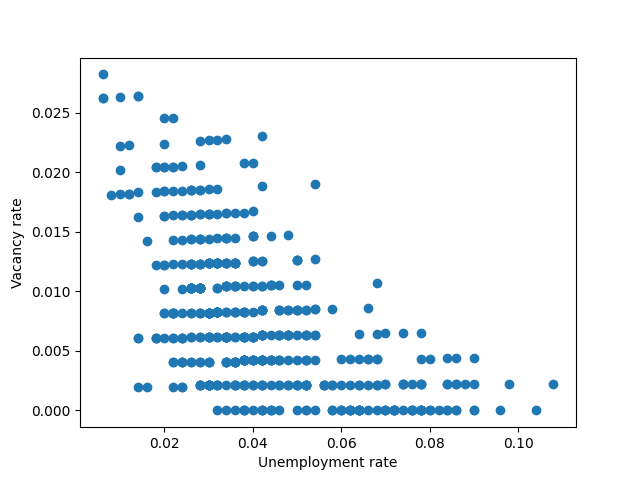
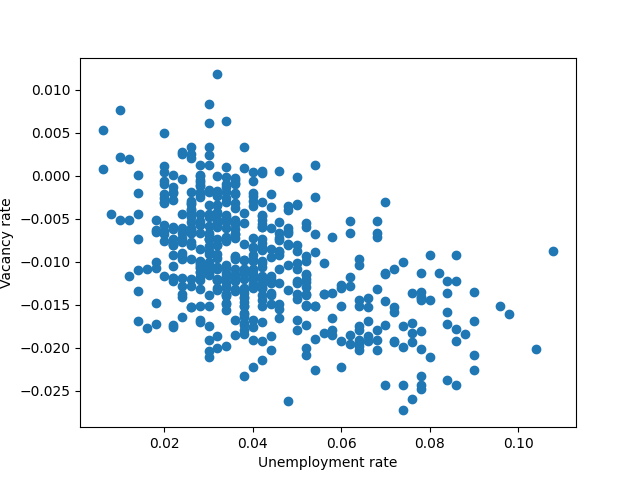
vacancie rate negative

diff --git a/models/BAM.py b/models/BAM.py
@@ -160,7 +160,7 @@ class BAM_base:
             Lhat = np.zeros(self.Nf) # Labor whose contracts are expiring
             L = np.zeros(self.Nf)  # actual Labor Employed
             Lo = np.zeros(self.Nf) # actual workforce (L of last round - amount of just expired contracts)
-            vac = np.zeros(self.Nf, int) # Vacancy
+            vac = np.zeros(self.Nf) # Vacancy
             w_emp = [[] for _ in range(self.Nf)] # Ids of workers/household employed - each firm has a list with worker ids
             W = np.zeros(self.Nf) # aggregated Wage bills (wage payments to each Worker * employed workers)
             w_min_slice = np.repeat(np.arange(1,self.T,4), 4)  # array with values from 3 up to T-3 appearing 4 times in a row for slicing the minimum wage s.t. min. wage is revised every 4 periods
@@ -346,7 +346,8 @@ class BAM_base:
                     Lo[i] =  L[i] - Lhat[i]  # actual workforce
                     
                     # calcVacancies of firm i
-                    vac[i] = math.ceil(max((Ld[i] - Lo[i]) ,0)) # vacancies are always rounded to the next higher and cannot be negative
+                    # vac[i] = math.ceil(max((Ld[i] - Lo[i]) ,0)) # vacancies are always rounded to the next higher and cannot be negative
+                    vac[i] = np.around(max((Ld[i] - Lo[i]) ,0), decimals = 8)
                     if vac[i] > 0: 
                         f_empl.append(i+1) # if firm i has vacancies, then firm id i is saved to list 
 
@@ -1069,7 +1070,7 @@ class BAM_base:
                     writer.writerow(add_row)
 
                 # firm size distribution
-                if t in [499,599,699, 799, 899,999]:
+                if t in [self.T-499,self.T-599,self.T-699,self.T-799,self.T-899,self.T-999]:
                     
                     plt.clf()
                     plt.hist(L)
@@ -1101,6 +1102,9 @@ class BAM_base:
                 - initial entry: Ld = average ??!!
                 - resetting all key lists in beginning of each market ??
 
+                - vacancies not discrete -> look weird
+
+                Computationally more efficient
                 - using only numpy arrays: never use append and no for loops inside for loops
                 - rather: use 2-d numpy arrays: save values to initiazed list, then remove values not used .. 
                 """
@@ -1182,28 +1186,28 @@ class BAM_base:
                 """
                 # Log output
                 plt.clf()
-                plt.plot(np.log(self.production[499:,mc]))
+                plt.plot(np.log(self.production[self.T -499:,mc]))
                 plt.xlabel("Time")
                 plt.ylabel("Log output")
                 plt.savefig("plots/cut/LogOutput_mc%s.png" %mc)
 
                 # inflation rate
                 plt.clf()
-                plt.plot(self.inflation[499:,mc])
+                plt.plot(self.inflation[self.T -499:,mc])
                 plt.xlabel("Time")
                 plt.ylabel("Inflation rate")
                 plt.savefig("plots/cut/Inflation_mc%s.png" %mc)
 
                 # unemployment 
                 plt.clf()
-                plt.plot(self.unemp_rate[499:,mc])
+                plt.plot(self.unemp_rate[self.T -499:,mc])
                 plt.xlabel("Time")
                 plt.ylabel("unemployment rate")
                 plt.savefig("plots/cut/unemployment_mc%s.png" %mc)
                 
                 # productivity/real wage
                 plt.clf()
-                plt.plot(self.product_to_real_wage[499:,mc])
+                plt.plot(self.product_to_real_wage[self.T -499:,mc])
                 plt.xlabel("Time")
                 plt.ylabel("Productivity-real wage")
                 plt.savefig("plots/cut/product_to_real_wage_mc%s.png" %mc)
@@ -1211,21 +1215,21 @@ class BAM_base:
 
                 # Philips curve
                 plt.clf()
-                plt.scatter(self.unemp_rate[499:,mc], self.wage_inflation[499:,mc])
+                plt.scatter(self.unemp_rate[self.T -499:,mc], self.wage_inflation[self.T -499:,mc])
                 plt.xlabel("Unemployment Rate")
                 plt.ylabel("Wage Inflation")
                 plt.savefig('plots/cut/philips_mc%s.png' %mc)
 
                 # Okuns law
                 plt.clf()
-                plt.scatter(self.unemp_growth_rate[499:,mc], self.output_growth_rate[499:,mc])
+                plt.scatter(self.unemp_growth_rate[self.T -499:,mc], self.output_growth_rate[self.T -499:,mc])
                 plt.xlabel("Unemployment growth rate")
                 plt.ylabel("Output growth rate")
                 plt.savefig('plots/cut/Okun_mc%s.png' %mc)
 
                 # Beveridge
                 plt.clf()
-                plt.scatter(self.unemp_rate[499:,mc], self.vac_rate[499:,mc])
+                plt.scatter(self.unemp_rate[self.T -499:,mc], self.vac_rate[self.T -499:,mc])
                 plt.xlabel("Unemployment rate")
                 plt.ylabel("Vacancy rate")
                 plt.savefig('plots/cut/Beveridge_mc%s.png' %mc)
@@ -1233,7 +1237,7 @@ class BAM_base:
 
                 # bankrutpcy
                 plt.clf()
-                plt.plot(self.bankrupt_firms_total[499:,mc])
+                plt.plot(self.bankrupt_firms_total[self.T -499:,mc])
                 plt.xlabel("Time")
                 plt.ylabel("bankruptcies")
                 plt.savefig("plots/cut/bankruptcies%s.png" %mc)
@@ -1241,7 +1245,7 @@ class BAM_base:
 
                 # mean HH Income
                 plt.clf()
-                plt.plot(self.aver_savings[499:,mc])
+                plt.plot(self.aver_savings[self.T -499:,mc])
                 plt.xlabel("Time")
                 plt.ylabel("average HH Income")
                 plt.savefig("plots/cut/HH_income_mc%s.png" %mc)

diff --git a/main.py b/main.py
@@ -53,10 +53,10 @@ First the estimation method is tested by using pseudo-empirical data with a-prio
 The first mc simulation is used as the 'observed' dataset. 
 """
 
-pseudo_empirical = models.toymodel.simple_macro_ABM(
-                    Time=1000, Ni=100, MC=1, 
-                    gamma=2, pbar=0.01, delta=0.05, rbar=0.075, 
-                    plots=True, filters=False)
+#pseudo_empirical = models.toymodel.simple_macro_ABM(
+#                    Time=2000, Ni=100, MC=1, 
+#                    gamma=2, pbar=0.01, delta=0.05, rbar=0.075, 
+#                   plots=True, filters=False)
 
 # sample possible parameter values 
 
